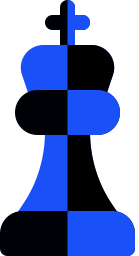
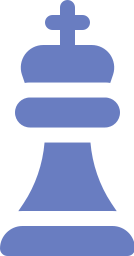
randomizes first player

diff --git a/app/javascript/components/App.js b/app/javascript/components/App.js
@@ -5,7 +5,7 @@ import { reactLocalStorage } from "reactjs-localstorage";
 import LandingPage from "./LandingPage";
 import Dashboard from "./Dashboard";
 import Game from "../containers/Game";
-import Logo from "images/OnitamaLogo.svg.png";
+import Logo from "images/OnitamaLogo.svg.svg";
 import LogoBlue from "images/OnitamaLogo_blue.svg.svg";
 import LogoRed from "images/OnitamaLogo_red.svg.svg";
 
@@ -61,7 +61,7 @@ export default class App extends Component {
   };
 
   //handle a palyer foritting the game
-  forfit = () => {
+  forfeit = () => {
     this.handleGameWon();
   };
 
@@ -129,6 +129,7 @@ export default class App extends Component {
   };
 
   setLogo = (cp = null) => {
+    console.log("go", cp);
     switch (cp) {
       case "red":
         return this.setState({ ...this.state, logo: LogoRed });
@@ -186,10 +187,10 @@ export default class App extends Component {
                 <Link
                   to="/dashboard"
                   className="navbar-item"
-                  onClick={this.forfit}
+                  onClick={this.forfeit}
                 >
                   {" "}
-                  Forfit Game{" "}
+                  Forfeit Game{" "}
                 </Link>
               ) : null}
             </div>

diff --git a/app/javascript/containers/Game.js b/app/javascript/containers/Game.js
@@ -398,6 +398,7 @@ class Game extends Component {
   //send New Deck of cards to the back end
   sendNewDeck = (cards) => {
     let firstPlayer = Math.random() > 0.5 ? "red" : "blue";
+
     console.log("I'm updating the back end with the new deck of cards");
     this.match_channel.sendShuffle({
       cards: cards,
@@ -406,7 +407,7 @@ class Game extends Component {
   };
   // add the new deck of cards into state
   updateCardsState = (data) => {
-    // console.log(data['cards'])
+    this.props.setLogo(data["currentPlayer"]);
     this.setState({
       ...this.state,
       cards: data["cards"],

diff --git a/app/javascript/components/BoardSquare.js b/app/javascript/components/BoardSquare.js
@@ -63,7 +63,7 @@ const BoardSquare = ({
         {piece_image ? (
           <img
             src={require(`images/${piece_image}.png`)}
-            className={` piece-image ${pieceClass}`}
+            className={`piece-image ${pieceClass}`}
             alt={piece_image}
           />
         ) : null}

diff --git a/app/assets/stylesheets/application.css b/app/assets/stylesheets/application.css
@@ -76,10 +76,6 @@ html {
 figure.image.board-square.is-square {
   width: 65%;
 }
-
-img.piece-image.is-centered {
-  height: 90%
-}
 /* center game piece in board square */
 .is-horizontal-center {
   justify-content: center;
